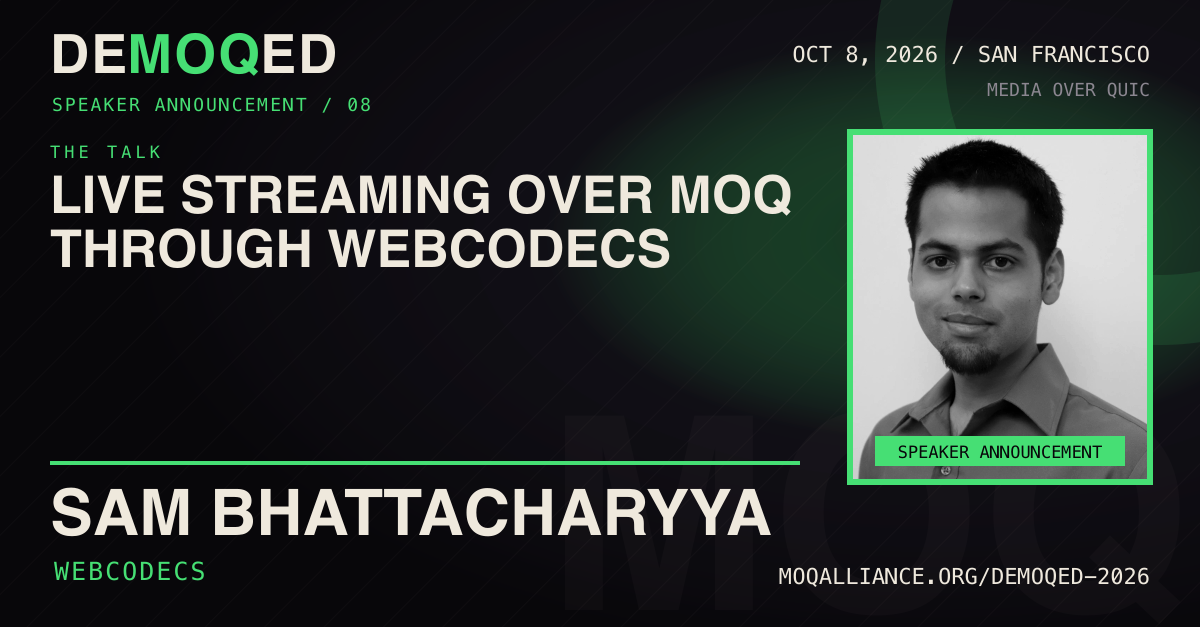
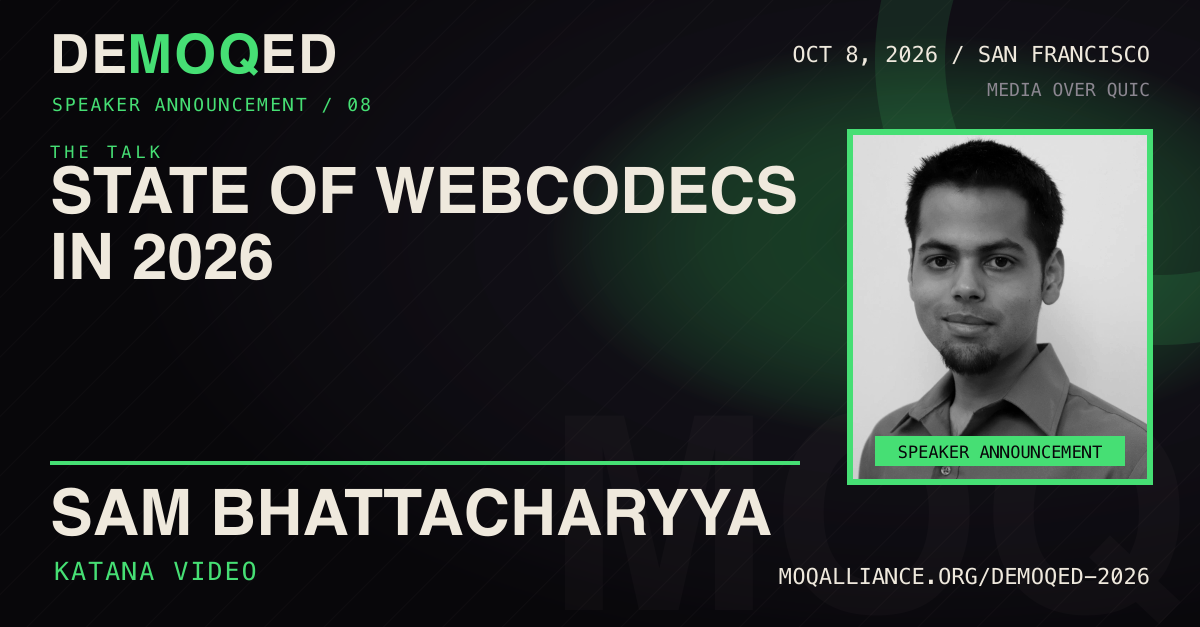
Correct DEMOQED speaker topics

Changed region(s): [[0.0308, 0.2424, 0.6783, 0.4545], [0.0308, 0.8788, 0.2158, 0.9394]]

diff --git a/public/demoqed-2026/social/copy.md b/public/demoqed-2026/social/copy.md
@@ -8,7 +8,7 @@ Generated from `campaigns/demoqed-2026-speakers.json`. Copy includes platform-sp
 
 Luke Curley of moq.pro is speaking at DEMOQED.
 
-"How to hand draw your slides (and something something MoQ)"
+"How to hand draw your slides (and something something moq)"
 
 October 8, 2026 in San Francisco.
 https://moqalliance.org/demoqed-2026
@@ -17,15 +17,13 @@ https://moqalliance.org/demoqed-2026
 
 **Image:** `x/luke-curley.png`
 
-**Alt text:** Square DEMOQED speaker announcement card for Luke Curley of moq.pro. The card shows a black-and-white portrait, a cream-colored talk title that reads "How to hand draw your slides (and something something MoQ)" and bright green accents on a black background. It summarizes the talk as: "Hand-drawn slides, plus something something MoQ. You'll have to be there." October 8, 2026 in San Francisco.
+**Alt text:** Square DEMOQED speaker announcement card for Luke Curley of moq.pro. The card shows a black-and-white portrait, a cream-colored talk title that reads "How to hand draw your slides (and something something moq)" and bright green accents on a black background. October 8, 2026 in San Francisco.
 
-### LinkedIn (308/3,000 characters)
+### LinkedIn (233/3,000 characters)
 
 Luke Curley of moq.pro is speaking at DEMOQED on October 8, 2026 in San Francisco.
 
-"How to hand draw your slides (and something something MoQ)"
-
-Hand-drawn slides, plus something something MoQ. You'll have to be there.
+"How to hand draw your slides (and something something moq)"
 
 Register: https://moqalliance.org/demoqed-2026
 
@@ -33,7 +31,7 @@ Register: https://moqalliance.org/demoqed-2026
 
 **Image:** `linkedin/luke-curley.png`
 
-**Alt text:** Landscape DEMOQED speaker announcement card for Luke Curley of moq.pro. The card shows a black-and-white portrait, a cream-colored talk title that reads "How to hand draw your slides (and something something MoQ)" and bright green accents on a black background. October 8, 2026 in San Francisco.
+**Alt text:** Landscape DEMOQED speaker announcement card for Luke Curley of moq.pro. The card shows a black-and-white portrait, a cream-colored talk title that reads "How to hand draw your slides (and something something moq)" and bright green accents on a black background. October 8, 2026 in San Francisco.
 
 ---
 
@@ -78,7 +76,7 @@ Register: https://moqalliance.org/demoqed-2026
 
 Will Law of Akamai Technologies is speaking at DEMOQED.
 
-"I'm streaming MoQ - huh?"
+"I'm streaming MOQ - huh?"
 
 October 8, 2026 in San Francisco.
 https://moqalliance.org/demoqed-2026
@@ -87,13 +85,13 @@ https://moqalliance.org/demoqed-2026
 
 **Image:** `x/will-law.png`
 
-**Alt text:** Square DEMOQED speaker announcement card for Will Law of Akamai Technologies. The card shows a black-and-white portrait, a cream-colored talk title that reads "I'm streaming MoQ - huh?" and bright purple accents on a black background. It summarizes the talk as: "Why payload-agnostic MOQT still needs media formats, with MSF, CMSF, and working player demos." October 8, 2026 in San Francisco.
+**Alt text:** Square DEMOQED speaker announcement card for Will Law of Akamai Technologies. The card shows a black-and-white portrait, a cream-colored talk title that reads "I'm streaming MOQ - huh?" and bright purple accents on a black background. It summarizes the talk as: "Why payload-agnostic MOQT still needs media formats, with MSF, CMSF, and working player demos." October 8, 2026 in San Francisco.
 
 ### LinkedIn (304/3,000 characters)
 
 Will Law of Akamai Technologies is speaking at DEMOQED on October 8, 2026 in San Francisco.
 
-"I'm streaming MoQ - huh?"
+"I'm streaming MOQ - huh?"
 
 Why payload-agnostic MOQT still needs media formats, with MSF, CMSF, and working player demos.
 
@@ -103,17 +101,17 @@ Register: https://moqalliance.org/demoqed-2026
 
 **Image:** `linkedin/will-law.png`
 
-**Alt text:** Landscape DEMOQED speaker announcement card for Will Law of Akamai Technologies. The card shows a black-and-white portrait, a cream-colored talk title that reads "I'm streaming MoQ - huh?" and bright purple accents on a black background. October 8, 2026 in San Francisco.
+**Alt text:** Landscape DEMOQED speaker announcement card for Will Law of Akamai Technologies. The card shows a black-and-white portrait, a cream-colored talk title that reads "I'm streaming MOQ - huh?" and bright purple accents on a black background. October 8, 2026 in San Francisco.
 
 ---
 
 ## Aman Sharma and Konstantin Tsoy / Meta
 
-### X (193/280 weighted characters)
+### X (191/280 weighted characters)
 
 Aman Sharma and Konstantin Tsoy of Meta are speaking at DEMOQED.
 
-"Moving Instagram and Facebook Live to MoQ"
+Moving Instagram and Facebook Live to MoQ
 
 October 8, 2026 in San Francisco.
 https://moqalliance.org/demoqed-2026
@@ -122,13 +120,13 @@ https://moqalliance.org/demoqed-2026
 
 **Image:** `x/aman-sharma-konstantin-tsoy.png`
 
-**Alt text:** Square DEMOQED speaker announcement card for Aman Sharma and Konstantin Tsoy of Meta. The card shows black-and-white portraits, a cream-colored talk title that reads "Moving Instagram and Facebook Live to MoQ" and bright pink accents on a black background. It summarizes the talk as: "How Meta is moving Instagram and Facebook Live from its proprietary RUSH protocol to Media over QUIC." October 8, 2026 in San Francisco.
+**Alt text:** Square DEMOQED speaker announcement card for Aman Sharma and Konstantin Tsoy of Meta. The card shows black-and-white portraits, a cream-colored editorial headline that reads "Moving Instagram and Facebook Live to MoQ" and bright pink accents on a black background. It summarizes the talk as: "How Meta is moving Instagram and Facebook Live from its proprietary RUSH protocol to Media over QUIC." October 8, 2026 in San Francisco.
 
-### LinkedIn (337/3,000 characters)
+### LinkedIn (335/3,000 characters)
 
 Aman Sharma and Konstantin Tsoy of Meta are speaking at DEMOQED on October 8, 2026 in San Francisco.
 
-"Moving Instagram and Facebook Live to MoQ"
+Moving Instagram and Facebook Live to MoQ
 
 How Meta is moving Instagram and Facebook Live from its proprietary RUSH protocol to Media over QUIC.
 
@@ -138,17 +136,17 @@ Register: https://moqalliance.org/demoqed-2026
 
 **Image:** `linkedin/aman-sharma-konstantin-tsoy.png`
 
-**Alt text:** Landscape DEMOQED speaker announcement card for Aman Sharma and Konstantin Tsoy of Meta. The card shows black-and-white portraits, a cream-colored talk title that reads "Moving Instagram and Facebook Live to MoQ" and bright pink accents on a black background. October 8, 2026 in San Francisco.
+**Alt text:** Landscape DEMOQED speaker announcement card for Aman Sharma and Konstantin Tsoy of Meta. The card shows black-and-white portraits, a cream-colored editorial headline that reads "Moving Instagram and Facebook Live to MoQ" and bright pink accents on a black background. October 8, 2026 in San Francisco.
 
 ---
 
 ## Alan Frindell / Atomic Quokka
 
-### X (172/280 weighted characters)
+### X (170/280 weighted characters)
 
 Alan Frindell of Atomic Quokka is speaking at DEMOQED.
 
-"Scaling the OpenMOQ moqx relay"
+Scaling the OpenMOQ moqx relay
 
 October 8, 2026 in San Francisco.
 https://moqalliance.org/demoqed-2026
@@ -157,13 +155,13 @@ https://moqalliance.org/demoqed-2026
 
 **Image:** `x/alan-frindell.png`
 
-**Alt text:** Square DEMOQED speaker announcement card for Alan Frindell of Atomic Quokka. The card shows a black-and-white portrait, a cream-colored talk title that reads "Scaling the OpenMOQ moqx relay" and bright orange accents on a black background. It summarizes the talk as: "How the OpenMOQ moqx relay scales fan-out efficiently across multiple CPU cores." October 8, 2026 in San Francisco.
+**Alt text:** Square DEMOQED speaker announcement card for Alan Frindell of Atomic Quokka. The card shows a black-and-white portrait, a cream-colored editorial headline that reads "Scaling the OpenMOQ moqx relay" and bright orange accents on a black background. It summarizes the talk as: "How the OpenMOQ moqx relay scales fan-out efficiently across multiple CPU cores." October 8, 2026 in San Francisco.
 
-### LinkedIn (295/3,000 characters)
+### LinkedIn (293/3,000 characters)
 
 Alan Frindell of Atomic Quokka is speaking at DEMOQED on October 8, 2026 in San Francisco.
 
-"Scaling the OpenMOQ moqx relay"
+Scaling the OpenMOQ moqx relay
 
 How the OpenMOQ moqx relay scales fan-out efficiently across multiple CPU cores.
 
@@ -173,17 +171,17 @@ Register: https://moqalliance.org/demoqed-2026
 
 **Image:** `linkedin/alan-frindell.png`
 
-**Alt text:** Landscape DEMOQED speaker announcement card for Alan Frindell of Atomic Quokka. The card shows a black-and-white portrait, a cream-colored talk title that reads "Scaling the OpenMOQ moqx relay" and bright orange accents on a black background. October 8, 2026 in San Francisco.
+**Alt text:** Landscape DEMOQED speaker announcement card for Alan Frindell of Atomic Quokka. The card shows a black-and-white portrait, a cream-colored editorial headline that reads "Scaling the OpenMOQ moqx relay" and bright orange accents on a black background. October 8, 2026 in San Francisco.
 
 ---
 
-## David von Wrangel / Millicast
+## David von Wrangel / Evolve Robotics
 
-### X (190/280 weighted characters)
+### X (164/280 weighted characters)
 
-David von Wrangel of Millicast is speaking at DEMOQED.
+David von Wrangel of Evolve Robotics is speaking at DEMOQED.
 
-"Adding interactivity to live broadcasts with MoQ"
+"MoQ beyond media"
 
 October 8, 2026 in San Francisco.
 https://moqalliance.org/demoqed-2026
@@ -192,15 +190,15 @@ https://moqalliance.org/demoqed-2026
 
 **Image:** `x/david-von-wrangel.png`
 
-**Alt text:** Square DEMOQED speaker announcement card for David von Wrangel of Millicast. The card shows a black-and-white portrait, a cream-colored talk title that reads "Adding interactivity to live broadcasts with MoQ" and bright yellow accents on a black background. It summarizes the talk as: "See how MoQ can replace traditional HLS streaming to reduce latency and enable new audience interactions, including a live demo." October 8, 2026 in San Francisco.
+**Alt text:** Square DEMOQED speaker announcement card for David von Wrangel of Evolve Robotics. The card shows a black-and-white portrait, a cream-colored talk title that reads "MoQ beyond media" and bright yellow accents on a black background. It summarizes the talk as: "How Evolve Robotics replaced WebRTC and backend pub/sub with MoQ for robot teleoperation, events, and progressively refined point clouds." October 8, 2026 in San Francisco.
 
-### LinkedIn (361/3,000 characters)
+### LinkedIn (344/3,000 characters)
 
-David von Wrangel of Millicast is speaking at DEMOQED on October 8, 2026 in San Francisco.
+David von Wrangel of Evolve Robotics is speaking at DEMOQED on October 8, 2026 in San Francisco.
 
-"Adding interactivity to live broadcasts with MoQ"
+"MoQ beyond media"
 
-See how MoQ can replace traditional HLS streaming to reduce latency and enable new audience interactions, including a live demo.
+How Evolve Robotics replaced WebRTC and backend pub/sub with MoQ for robot teleoperation, events, and progressively refined point clouds.
 
 Register: https://moqalliance.org/demoqed-2026
 
@@ -208,17 +206,17 @@ Register: https://moqalliance.org/demoqed-2026
 
 **Image:** `linkedin/david-von-wrangel.png`
 
-**Alt text:** Landscape DEMOQED speaker announcement card for David von Wrangel of Millicast. The card shows a black-and-white portrait, a cream-colored talk title that reads "Adding interactivity to live broadcasts with MoQ" and bright yellow accents on a black background. October 8, 2026 in San Francisco.
+**Alt text:** Landscape DEMOQED speaker announcement card for David von Wrangel of Evolve Robotics. The card shows a black-and-white portrait, a cream-colored talk title that reads "MoQ beyond media" and bright yellow accents on a black background. October 8, 2026 in San Francisco.
 
 ---
 
 ## Mike English / Cloudflare
 
-### X (172/280 weighted characters)
+### X (155/280 weighted characters)
 
 Mike English of Cloudflare is speaking at DEMOQED.
 
-"Using MoQ to Accelerate Agentic AI"
+"HAM radio and MoQ"
 
 October 8, 2026 in San Francisco.
 https://moqalliance.org/demoqed-2026
@@ -227,15 +225,13 @@ https://moqalliance.org/demoqed-2026
 
 **Image:** `x/mike-english.png`
 
-**Alt text:** Square DEMOQED speaker announcement card for Mike English of Cloudflare. The card shows a black-and-white portrait, a cream-colored talk title that reads "Using MoQ to Accelerate Agentic AI" and bright lime green accents on a black background. It summarizes the talk as: "Real-time multimodal AI agents stream vision and audio over MoQ, with open-source code and a live demo." October 8, 2026 in San Francisco.
+**Alt text:** Square DEMOQED speaker announcement card for Mike English of Cloudflare. The card shows a black-and-white portrait, a cream-colored talk title that reads "HAM radio and MoQ" and bright lime green accents on a black background. October 8, 2026 in San Francisco.
 
-### LinkedIn (318/3,000 characters)
+### LinkedIn (196/3,000 characters)
 
 Mike English of Cloudflare is speaking at DEMOQED on October 8, 2026 in San Francisco.
 
-"Using MoQ to Accelerate Agentic AI"
-
-Real-time multimodal AI agents stream vision and audio over MoQ, with open-source code and a live demo.
+"HAM radio and MoQ"
 
 Register: https://moqalliance.org/demoqed-2026
 
@@ -243,17 +239,17 @@ Register: https://moqalliance.org/demoqed-2026
 
 **Image:** `linkedin/mike-english.png`
 
-**Alt text:** Landscape DEMOQED speaker announcement card for Mike English of Cloudflare. The card shows a black-and-white portrait, a cream-colored talk title that reads "Using MoQ to Accelerate Agentic AI" and bright lime green accents on a black background. October 8, 2026 in San Francisco.
+**Alt text:** Landscape DEMOQED speaker announcement card for Mike English of Cloudflare. The card shows a black-and-white portrait, a cream-colored talk title that reads "HAM radio and MoQ" and bright lime green accents on a black background. October 8, 2026 in San Francisco.
 
 ---
 
-## Sam Bhattacharyya / WebCodecs
+## Sam Bhattacharyya / Katana Video
 
-### X (183/280 weighted characters)
+### X (171/280 weighted characters)
 
-Sam Bhattacharyya of WebCodecs is speaking at DEMOQED.
+Sam Bhattacharyya of Katana Video is speaking at DEMOQED.
 
-"Live Streaming over MoQ through WebCodecs"
+"State of WebCodecs in 2026"
 
 October 8, 2026 in San Francisco.
 https://moqalliance.org/demoqed-2026
@@ -262,15 +258,15 @@ https://moqalliance.org/demoqed-2026
 
 **Image:** `x/sam-bhattacharyya.png`
 
-**Alt text:** Square DEMOQED speaker announcement card for Sam Bhattacharyya of WebCodecs. The card shows a black-and-white portrait, a cream-colored talk title that reads "Live Streaming over MoQ through WebCodecs" and bright green accents on a black background. It summarizes the talk as: "A browser-only live streaming demo using WebCodecs and MoQ, with no native dependencies or WebAssembly." October 8, 2026 in San Francisco.
+**Alt text:** Square DEMOQED speaker announcement card for Sam Bhattacharyya of Katana Video. The card shows a black-and-white portrait, a cream-colored talk title that reads "State of WebCodecs in 2026" and bright green accents on a black background. It summarizes the talk as: "An open-source dataset on browser codec support, with takeaways for MoQ applications and AV1's viability as a distribution target." October 8, 2026 in San Francisco.
 
-### LinkedIn (329/3,000 characters)
+### LinkedIn (344/3,000 characters)
 
-Sam Bhattacharyya of WebCodecs is speaking at DEMOQED on October 8, 2026 in San Francisco.
+Sam Bhattacharyya of Katana Video is speaking at DEMOQED on October 8, 2026 in San Francisco.
 
-"Live Streaming over MoQ through WebCodecs"
+"State of WebCodecs in 2026"
 
-A browser-only live streaming demo using WebCodecs and MoQ, with no native dependencies or WebAssembly.
+An open-source dataset on browser codec support, with takeaways for MoQ applications and AV1's viability as a distribution target.
 
 Register: https://moqalliance.org/demoqed-2026
 
@@ -278,4 +274,4 @@ Register: https://moqalliance.org/demoqed-2026
 
 **Image:** `linkedin/sam-bhattacharyya.png`
 
-**Alt text:** Landscape DEMOQED speaker announcement card for Sam Bhattacharyya of WebCodecs. The card shows a black-and-white portrait, a cream-colored talk title that reads "Live Streaming over MoQ through WebCodecs" and bright green accents on a black background. October 8, 2026 in San Francisco.
+**Alt text:** Landscape DEMOQED speaker announcement card for Sam Bhattacharyya of Katana Video. The card shows a black-and-white portrait, a cream-colored talk title that reads "State of WebCodecs in 2026" and bright green accents on a black background. October 8, 2026 in San Francisco.
